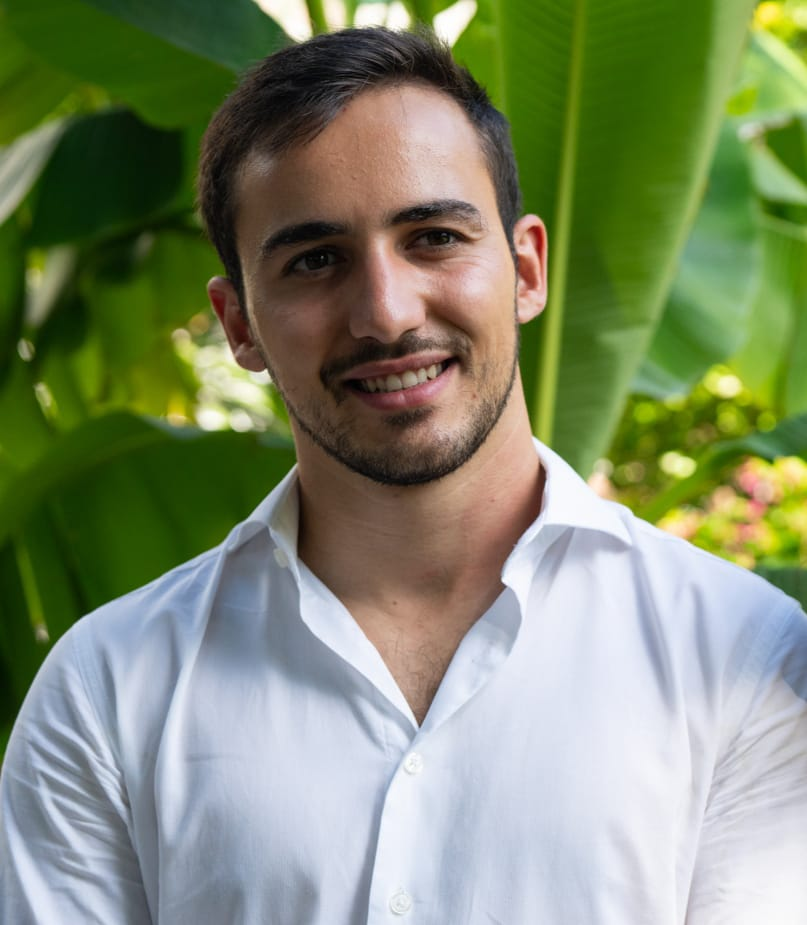
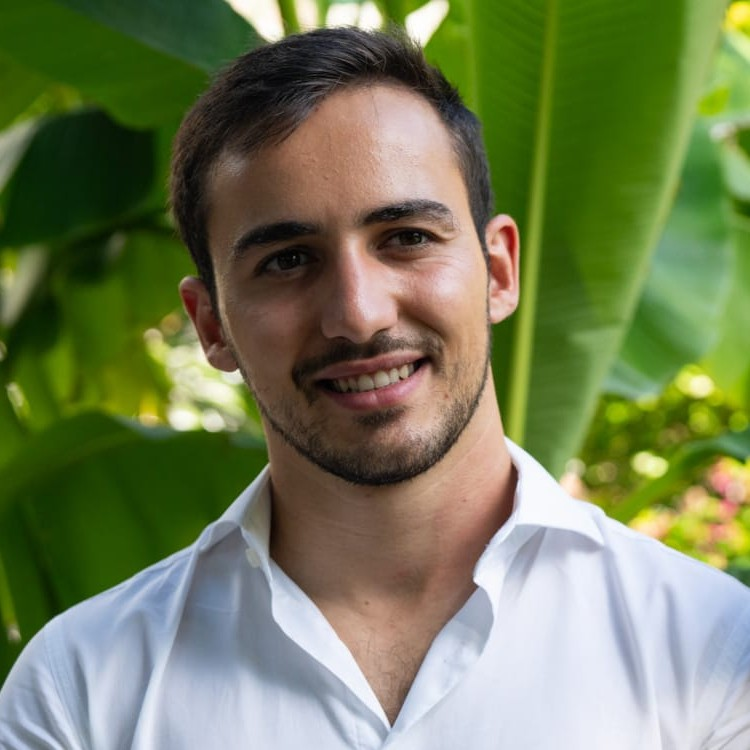
update photo

diff --git a/index.html b/index.html
@@ -41,8 +41,13 @@
 
             <div class="sidebar-info">
 
-                <figure class="avatar-box">
-                    <img src="./assets/images/my-avatar.jpeg" alt="Brian Marques" class="circular-image" width="80">
+                <figure>
+                    <img 
+                        src="./assets/images/my-avatar.jpeg" 
+                        alt="Brian Marques" 
+                        style="border-radius: 50%; object-fit: cover; height: 200px; width: 200px;"
+                        width="80"
+                    >
                 </figure>
 
                 <div class="info-content">

diff --git a/assets/css/style.css b/assets/css/style.css
@@ -4,12 +4,7 @@
 
 /* ADDED BY ME
 */
-.circular-image {
-  border-radius: 50%;
-  object-fit: cover; /* Add this */
-  height: 80px; /* Ensure height matches width */
-  width: 80px;
-}
+
 
 /**
  * copyright 2022 @codewithsadee
